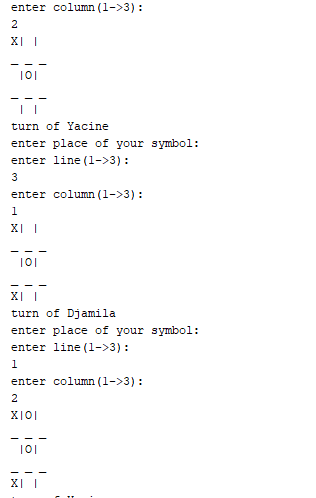
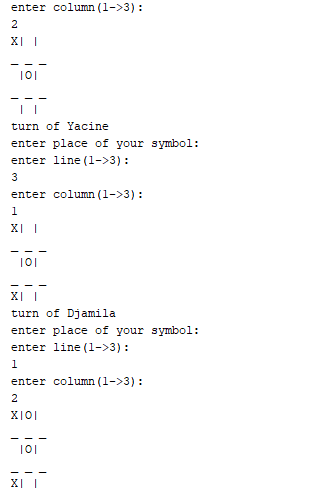
version 3

diff --git a/README.MD b/README.MD
@@ -15,5 +15,7 @@ Here's a Java object-oriented project: a Tic Tac Toe game.
 
 ![image7](images/g6.PNG)
 
+![image8](images/g7.PNG)
+
 
 
